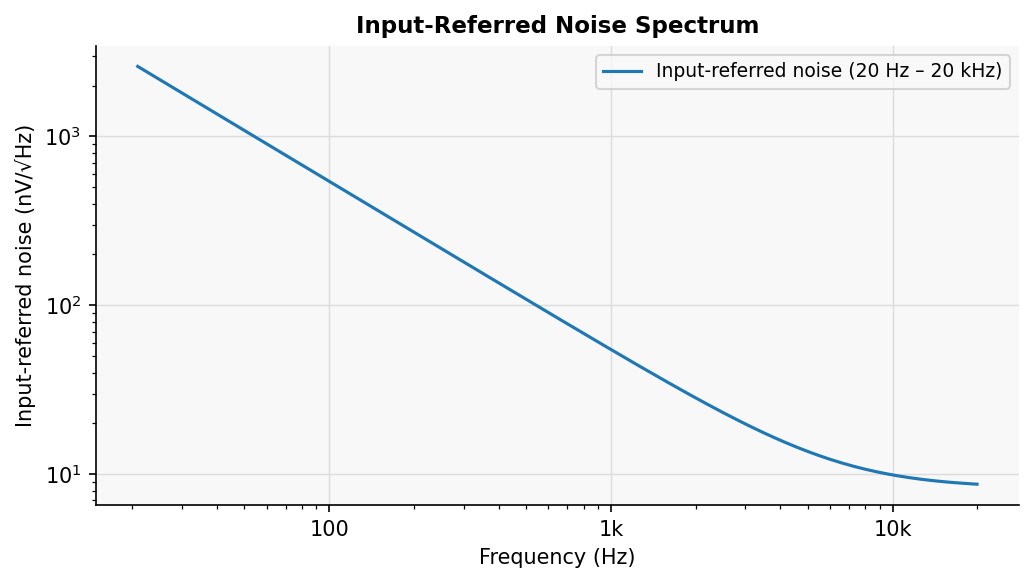
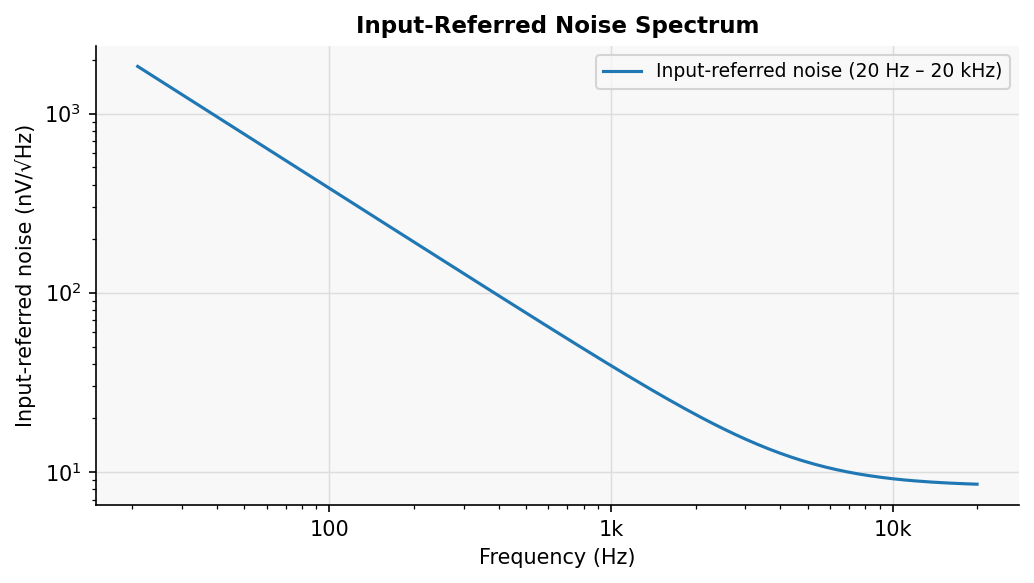
design: bias resistors 100M 1206 -> 200M 0805 (#109)
R_GBIAS1 and R_BIAS1 load the capsule in parallel and set the noise floor
below a few kHz. 200M is the balance point between self-noise and
sensitivity to surface leakage.

- R_GBIAS1, R_BIAS1: 200M 0805, Vishay CRCW0805200MJPEAHR (C3934221),
  one BOM line instead of two
- Simulated: self-noise 21.0 -> 18.4 dB(A), 1kHz 54.8 -> 39.2 nV/rtHz,
  input corner 59 -> 29 Hz; leakage sensitivity 2x
- Layout: both footprints 1206 -> 0805, CAP_FP / HV_FILT / VPLUS trace
  ends moved to the new pads
- sim: params 200Meg; check_noise limit 60 -> 45 nV/rtHz; psrr keeps the
  historical cases at 100M and adds a current-hardware case (-136.2 dBu)
  with its own FAIL gate; boost_dickson stand-in load fixed at 100M
- README: bias resistor value table, 470M 0805 noted as a hand-fit
  drop-in (not a BOM variant)

Claude-Session: https://claude.ai/code/session_015i5qnVycS4XSJqCK8r2Lny

diff --git a/pcb/gen_pcb.py b/pcb/gen_pcb.py
@@ -296,19 +296,19 @@ def route_all(board):
           (36.5,   78.0625))
 
     # ── HV_FILT: C9-pad1 → R_GBIAS1-pad2  (long HV rail up right edge) ───
-    # R_GBIAS1 pad2 (HV_FILT) at (30.4625,14); run x=37.2 to avoid everything
+    # R_GBIAS1 pad2 (HV_FILT) at (29.9125,14); run x=37.2 to avoid everything
     # x=37.2: board edge gap 0.6mm ✓; MH2 pad right=36.7mm, trace left=37.0mm, gap=0.3mm ✓
     route(board, "HV_FILT", F, HV,
           (36.5,    78.0625),
           (37.2,    78.0625),
           (37.2,    14.0   ),
-          (30.4625, 14.0   ))
+          (29.9125, 14.0   ))
 
     # ── CAP_FP: R_GBIAS1-pad1 → C8-pad1 → J2-pad2 ────────────────────────
-    # R_GBIAS1 pad1 (CAP_FP) at (27.5375,14); straight left to C8.pad1 (14.425,14)
+    # R_GBIAS1 pad1 (CAP_FP) at (28.0875,14); straight left to C8.pad1 (14.425,14)
     # J2-pad2 (CAP_FP) at (19.04,3): branch off horizontal at x=19.04, go up to pad.
     route(board, "CAP_FP", F, HV,
-          (27.5375, 14.0),
+          (28.0875, 14.0),
           (14.425,  14.0))
     route(board, "CAP_FP", F, HV,
           (19.04,   14.0),
@@ -477,11 +477,11 @@ def route_all(board):
     # ════════════════════════════════════════════════════════════════════════
 
     # ── VPLUS / VPLUS_IN (all F.Cu, HIZ class, within keepout) ──────────────
-    # VPLUS: R_BIAS1 pad1 (9.925,27.5) → R_IN1 pad1 (11.475,27.635)
+    # VPLUS: R_BIAS1 pad1 (8.825,27.5) → R_IN1 pad1 (11.475,27.635)
     # VPLUS_IN: R_IN1 pad2 (13.125,27.635) → U1 pin3 (15.025,27.635)
     route(board, "VPLUS", F, SIG,
-          (9.925,  27.5  ),
-          (9.925,  27.635),
+          (8.825,  27.5  ),
+          (8.825,  27.635),
           (11.475, 27.635))
     route(board, "VPLUS_IN", F, SIG,
           (13.125, 27.635),
@@ -895,10 +895,10 @@ def main():
           "C8", "1n 100V C0G 1206", 12.95, 14, 180,
           {"1": "CAP_FP", "2": "VPLUS"})
 
-    # R_GBIAS1: single 100MΩ, HV_FILT → CAP_FP
-    # pad1(left)=CAP_FP at (27.5375,14); pad2(right)=HV_FILT at (30.4625,14)
-    place(board, "Resistor_SMD", "R_1206_3216Metric",
-          "R_GBIAS1", "100M 200V 1206", 29, 14, 0,
+    # R_GBIAS1: 200MΩ 0805 (#109), HV_FILT → CAP_FP
+    # pad1(left)=CAP_FP at (28.0875,14); pad2(right)=HV_FILT at (29.9125,14)
+    place(board, "Resistor_SMD", "R_0805_2012Metric",
+          "R_GBIAS1", "200M 0805", 29, 14, 0,
           {"1": "CAP_FP", "2": "HV_FILT"})
 
     # ── OPA1641 amplifier zone (y=18..42) ────────────────────────────────────
@@ -911,10 +911,10 @@ def main():
             _pad.SetLocalZoneConnection(pcbnew.ZONE_CONNECTION_FULL)
             break
 
-    # R_BIAS: VPLUS -> V_MID  (100M, establishes DC operating point for IN+)
-    # angle=180: pad1(VPLUS) at right (9.925,27.5); pad2(V_MID) at left (7.0,27.5) on bus
-    place(board, "Resistor_SMD", "R_1206_3216Metric",
-          "R_BIAS1", "100M 1206", 8.4625, 27.5, 180,
+    # R_BIAS: VPLUS -> V_MID  (200M 0805, #109; establishes DC operating point for IN+)
+    # angle=180: pad1(VPLUS) at right (8.825,27.5); pad2(V_MID) at left (7.0,27.5) on bus
+    place(board, "Resistor_SMD", "R_0805_2012Metric",
+          "R_BIAS1", "200M 0805", 7.9125, 27.5, 180,
           {"1": "VPLUS", "2": "V_MID"})
 
     # R_IN1 (#96): VPLUS -> VPLUS_IN (U1 pin 3), 680R series. Limits current
@@ -1270,7 +1270,7 @@ def main():
     fix_ref(board, "C_PRES1", x_mm=19.0, y_mm=34.5, angle_deg=0)
     # R_BIAS1: angle=180 rotates silk; force horizontal and place above component
     # (body top at y=26.7, 1206 half-height=0.8mm)
-    fix_ref(board, "R_BIAS1", x_mm=8.4625, y_mm=25.5, angle_deg=0)
+    fix_ref(board, "R_BIAS1", x_mm=7.9125, y_mm=25.6, angle_deg=0)
     # R_IN1 (#96): default ref lands on R_BIAS1's; put it below the part
     fix_ref(board, "R_IN1", x_mm=12.3, y_mm=29.0, angle_deg=0)
 

diff --git a/pcb/gen_schematic.py b/pcb/gen_schematic.py
@@ -554,11 +554,17 @@ _SY = -60
 
 # ── BLOCK C: HV BIAS CHAIN + CAPSULE + AC COUPLING (x=20..58, y=48..95) ──────
 
-elements += component("Device:R", "R_GBIAS1", "100M 200V 1206",
+# R_GBIAS1 / R_BIAS1 are 200M 0805 (#109). The capsule is loaded by the two in
+# parallel (R_BIAS1 is not bootstrapped), and their thermal noise current into
+# the capsule capacitance sets the noise floor below a few kHz. 200M instead of
+# 100M: about -2.6 dB(A) self-noise and an input corner of ~29Hz instead of
+# ~59Hz, for 2x the sensitivity to surface leakage. 470M 0805 fits the same
+# pads for lower noise still, at ~5x the leakage sensitivity.
+elements += component("Device:R", "R_GBIAS1", "200M 0805",
     30, 57,
-    footprint="Resistor_SMD:R_1206_3216Metric",
+    footprint="Resistor_SMD:R_0805_2012Metric",
     pins={"1": "~HV_FILT", "2": "CAP_FP"},
-    ref_at=(-13, -2.54), val_at=(-18, 1.27))
+    ref_at=(-13, -2.54), val_at=(-13, 1.27))
 elements.append(wire(30, 50.65, 10, 50.65))               # stub left to label
 elements.append(label("HV_FILT", 10, 50.65, 180))         # HV_FILT net label (connects to power Block H)
 
@@ -575,9 +581,9 @@ elements += component("Device:C", "C8", "1n 100V C0G 1206",
     pins={"1": "~CAP_FP", "2": "~VPLUS"},
     val_at=(2.54, 3.81))
 
-elements += component("Device:R", "R_BIAS1", "100M 1206",
+elements += component("Device:R", "R_BIAS1", "200M 0805",
     50, 83,
-    footprint="Resistor_SMD:R_1206_3216Metric",
+    footprint="Resistor_SMD:R_0805_2012Metric",
     pins={"1": "~VPLUS", "2": "~V_MID"},
     val_at=(2.54, -6))
 

diff --git a/pcb/gen_bom.py b/pcb/gen_bom.py
@@ -73,9 +73,8 @@ LCSC = {
     # Precision resistors (0603) — R1/R2 matched pair
     ("2.2k 0.1%", "R_0603_1608Metric"):            "C861295",   # YAGEO RT0603BRD072K2L thin film ±0.1% 25ppm 75V; Extended (15.7k stock 2026-10-07). #95: was 6.8k 0.1% (C2941290)
 
-    # High-value resistors (1206)
-    ("100M 1206",     "R_1206_3216Metric"):          "C5632242",  # FHF06JT-107 PSA 250mW ±5% — R_BIAS1
-    ("100M 200V 1206","R_1206_3216Metric"):         "C59781",    # 1206W4F1006T5E UNI-ROYAL 200V ±1% — R_GBIAS1
+    # High-value bias resistors (0805) — R_GBIAS1, R_BIAS1 (#109)
+    ("200M 0805",     "R_0805_2012Metric"):          "C3934221",  # Vishay CRCW0805200MJPEAHR ±5% thick film; 12.6k stock 2026-10-07. Was 100M 1206 (C5632242, C59781). Drop-in for lower noise: CRCW0805470MJPEAHR (470M, 150V)
 
     # Standard capacitors (0402)
     ("12n 25V X7R",   "C_0402_1005Metric"):        "C113786",   # YAGEO CC0402KRX7R8BB123; X7R fine — no DC bias, mV signal level

diff --git a/pcb/gen_params.py b/pcb/gen_params.py
@@ -15,8 +15,8 @@ PARAMS = {
     "R6_default":   "5.6k",   # feedback resistor, default BOM
     "R6_hi_gain":   "47k",    # feedback resistor, hi-gain BOM variant
     # ── HV bias network ──────────────────────────────────────────────────
-    "R_GBIAS":      "100Meg", # single HV bias resistor (R_GBIAS in schematic, 100MΩ 200V)
-    "R_BIAS1":      "100Meg", # IN+ bias resistor to V_MID (AC ground; not bootstrapped)
+    "R_GBIAS":      "200Meg", # HV bias resistor R_GBIAS1 (200MΩ 0805, #109)
+    "R_BIAS1":      "200Meg", # IN+ bias resistor to V_MID (AC ground; not bootstrapped), 200MΩ 0805 (#109)
     # ── Capsule model (customer-supplied; nominal for simulation) ─────────
     "Cc":           "55p",    # capsule self-capacitance (typical LDC capsule)
     "R_IN":         "680",    # R_IN1: series resistor into U1 IN+ (#96)

diff --git a/sim/check_noise.py b/sim/check_noise.py
@@ -13,7 +13,7 @@ import sys
 import re
 import numpy as np
 
-LIMIT_NV = 60  # nV/rtHz; expected ~54.8 from R_GBIAS1 + R_BIAS1 (both 100M) into Cc, plus OPA1641 Vn
+LIMIT_NV = 45  # nV/rtHz; expected ~39.2 from R_GBIAS1 + R_BIAS1 (both 200M) into Cc, plus OPA1641 Vn
 
 
 def parse_table(output):

diff --git a/README.md b/README.md
@@ -41,7 +41,7 @@ Charge pump settles to ~68 V within ~1 ms. HV_FILT is RC-filtered (1 MΩ + 470 n
 
 ![Frequency response](img/freq_response.png)
 
-Behavioral model, gain normalized to 1 kHz. The **blue curve** (baseline / DNP) is flat within about ±1 dB from ~500 Hz to ~20 kHz. Two high-pass mechanisms shape the low end: the input network (R_GBIAS ∥ R_BIAS1 = 50 MΩ against the 55 pF capsule, corner ~60 Hz) and the output DC block (C_DC = 4.7 µF) with the transformer.
+Behavioral model, gain normalized to 1 kHz. The **blue curve** (baseline / DNP) is flat within about ±1 dB from ~500 Hz to ~20 kHz. Two high-pass mechanisms shape the low end: the input network (R_GBIAS1 ∥ R_BIAS1 = 100 MΩ against the 55 pF capsule, corner ~29 Hz) and the output DC block (C_DC = 4.7 µF) with the transformer.
 
 > **The response below about 500 Hz is not verified.** The transformer model uses `Lp = 0.5 H` for the driven winding, which is an estimate; the Neutrik datasheet gives no inductance. The winding resistances (521 Ω and 42 Ω) are measured. The real low-frequency corner may be lower than plotted.
  The **orange curve** shows the optional presence-peak network populated: +2.6 dB shelving above f_c ≈ 2.1 kHz.
@@ -66,7 +66,19 @@ R_PRES1 (6.2 kΩ) and C_PRES1 (12 nF) in series, parallel with R3 (2.2 kΩ), are
 
 ![Noise spectrum](img/noise_spectrum.png)
 
-SPICE input-referred noise, computed by dividing total output noise by the signal transfer function at each frequency. The slope reflects the signal path's high-pass characteristic (coupling caps attenuate low-frequency signal more than noise), not a real frequency-dependent noise source. Below a few kHz the noise is set by the two 100 MΩ bias resistors (R_GBIAS1 and R_BIAS1): their thermal noise current flows into the capsule capacitance, so it falls with frequency. Simulated input-referred noise is 55 nV/√Hz at 1 kHz and about 10 nV/√Hz at 10 kHz, where the OPA1641 and R_IN1 take over. A-weighted over 20 Hz–20 kHz this is about 2.9 µV, equivalent to roughly 21 dB(A) SPL for a 13 mV/Pa, 55 pF capsule. These are simulated figures, not measurements.
+SPICE input-referred noise, computed by dividing total output noise by the signal transfer function at each frequency. The slope reflects the signal path's high-pass characteristic (coupling caps attenuate low-frequency signal more than noise), not a real frequency-dependent noise source. Below a few kHz the noise is set by the two 200 MΩ bias resistors (R_GBIAS1 and R_BIAS1): their thermal noise current flows into the capsule capacitance, so it falls with frequency. Simulated input-referred noise is 39 nV/√Hz at 1 kHz and about 9 nV/√Hz at 10 kHz, where the OPA1641 and R_IN1 take over. A-weighted over 20 Hz–20 kHz this is about 2.2 µV, equivalent to roughly 18 dB(A) SPL for a 13 mV/Pa, 55 pF capsule. These are simulated figures, not measurements.
+
+#### Bias resistor value (R_GBIAS1, R_BIAS1)
+
+Both are 0805 and must be the same value. A higher value lowers the noise floor and the input corner, and makes the input node proportionally more sensitive to surface leakage (flux residue, humidity). 200 MΩ is the default as the balance point.
+
+| Value (both) | Simulated self-noise | Input corner | Leakage sensitivity |
+|---|---|---|---|
+| 100 MΩ (up to v3.4.1, 1206) | 21.0 dB(A) | 59 Hz | 1× |
+| **200 MΩ (default)** | **18.4 dB(A)** | **29 Hz** | **2×** |
+| 470 MΩ (drop-in, e.g. Vishay CRCW0805470MJPEAHR) | 15.7 dB(A) | 12.5 Hz | 4.7× |
+
+The 470 MΩ option is not a generated BOM variant; fit it by hand if wanted. Clean the area around C8, R_IN1, R_BIAS1 and U1 pin 3 thoroughly whichever value is used.
 
 ## Hardware Requirements
 
@@ -182,7 +194,7 @@ cd sim
 ngspice boost_dickson.sp      # HV rail: VBOOST steady-state + ripple
 ngspice amp_noise_opa1641.sp  # Input-referred noise, OPA1641 model
 ngspice amp_ac.sp             # Closed-loop AC frequency response
-ngspice amp_bias_compare.sp   # R_BIAS1 100 MΩ vs 500 MΩ low-freq rolloff comparison
+ngspice amp_bias_compare.sp   # Low-frequency rolloff vs R_BIAS1 value
 ngspice phantom_ripple_psrr.sp # Phantom supply ripple → output hum
 ngspice supply_dc_op.sp       # V_OPA regulator DC operating point across phantom/load corners
 ```
